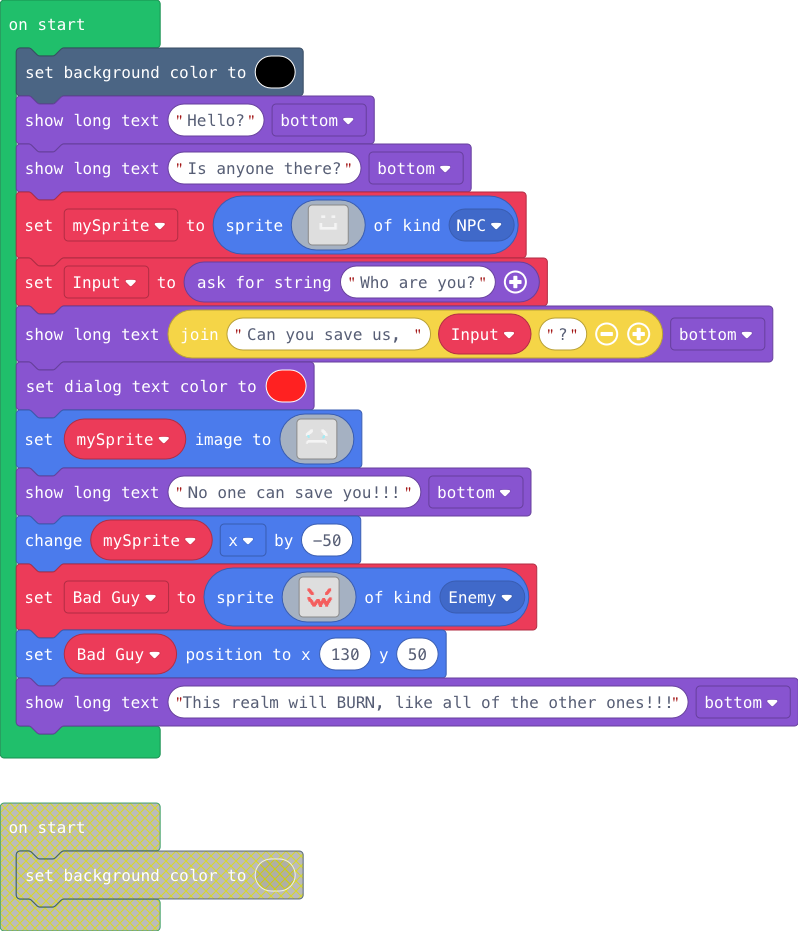
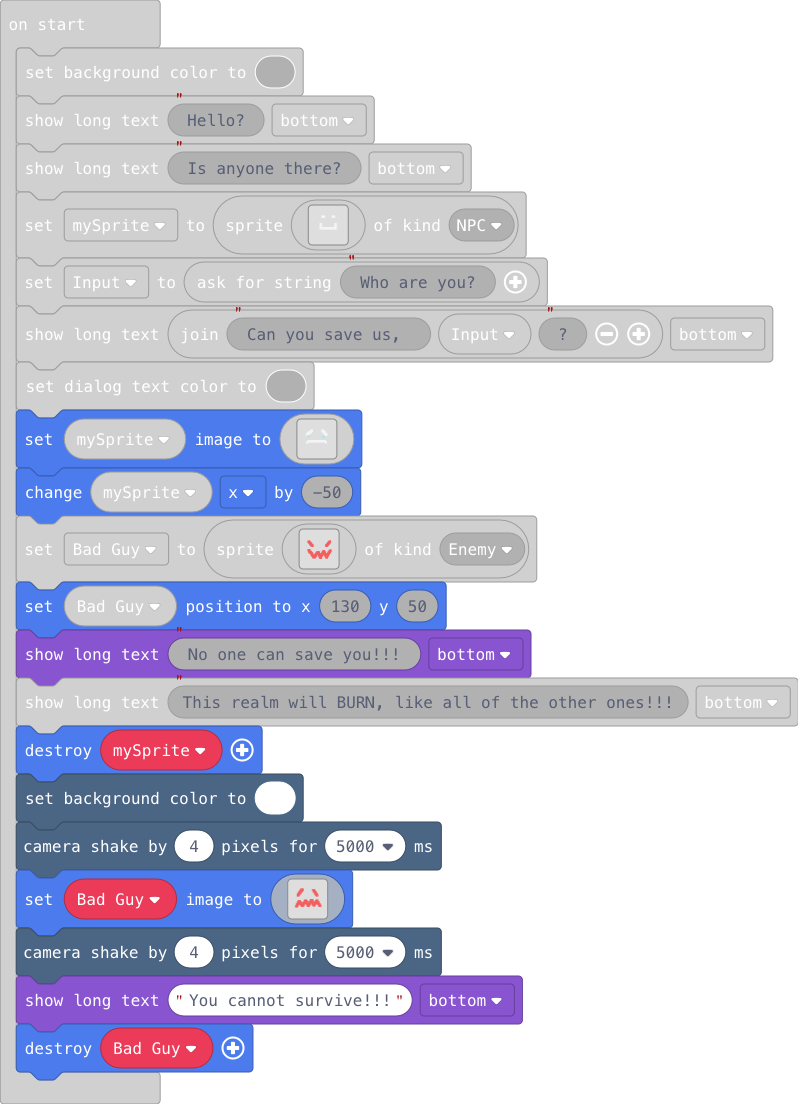
Cutscene still, working on camera angles

diff --git a/main.ts b/main.ts
@@ -160,7 +160,6 @@ mySprite.setImage(img`
 . . . . . . . . . . . . . . . . . . . . . . . . . . . . . . . . . . . . . . . . . . . . . . . . . . . . . . . . . . . . . . . . 
 . . . . . . . . . . . . . . . . . . . . . . . . . . . . . . . . . . . . . . . . . . . . . . . . . . . . . . . . . . . . . . . . 
 `)
-game.showLongText("No one can save you!!!", DialogLayout.Bottom)
 mySprite.x += -50
 let Bad_Guy = sprites.create(img`
 . . . . . . . . . . . . . . . . . . . . . . . . . . . . . . . . . . . . . . . . . . . . . . . . . . . . . . . . . . . . . . . . 
@@ -229,4 +228,77 @@ let Bad_Guy = sprites.create(img`
 . . . . . . . . . . . . . . . . . . . . . . . . . . . . . . . . . . . . . . . . . . . . . . . . . . . . . . . . . . . . . . . . 
 `, SpriteKind.Enemy)
 Bad_Guy.setPosition(130, 50)
+game.showLongText("No one can save you!!!", DialogLayout.Bottom)
 game.showLongText("This realm will BURN, like all of the other ones!!!", DialogLayout.Bottom)
+mySprite.destroy()
+scene.setBackgroundColor(1)
+scene.cameraShake(4, 5000)
+Bad_Guy.setImage(img`
+. . . . . . . . . . . . . . . . . . . . . . . . . . . . . . . . . . . . . . . . . . . . . . . . . . . . . . . . . . . . . . . . 
+. . . . . . . . . . . . . . . . . . . . . . . . . . . . . . . . . . . . . . . . . . . . . . . . . . . . . . . . . . . . . . . . 
+. . . . . . . . . . . . . . . . . . . . . . . . . . . . . . . . . . . . . . . . . . . . . . . . . . . . . . . . . . . . . . . . 
+. . . . . . . . . . . . . . . . . . . . . . . . . . . . . . . . . . . . . . . . . . . . . . . . . . . . . . . . . . . . . . . . 
+. . . . . . . . . . . . . . . . . . . . . . . . . . . . . . . . . . . . . . . . . . . . . . . . . . . . . . . . . . . . . . . . 
+. . . . . . . . . . . . . . . . . . . . . . . . . . . . . . . . . . . . . . . . . . . . . . . . . . . . . . . . . . . . . . . . 
+. . . . . . . . . . . . . . . . . . . . . . . . . . . . . . . . . . . . . . . . . . . . . . . . . . . . . . . . . . . . . . . . 
+. . . . . . . . . . . . . . . . . . . . . . . . . . . . . . . . . . . . . . . . . . . . . . . . . . . . . . . . . . . . . . . . 
+. . . . . . . . . . . . . . . . . . . . . . . . . . . . . . . . . . . . . . . . . . . . . . . . . . . . . . . . . . . . . . . . 
+. . . . . . . . . . . . . . . . . . . . . . . . . . . . . . . . . . . . . . . . . . . . . . . . . . . . . . . . . . . . . . . . 
+. . . . . . . . . . . . . . . . . . . . . . . . . . . . . . . . . . . . . . . . . . . . . . . . . . . . . . . . . . . . . . . . 
+. . . . . . . . . . . . . . . . . 2 2 2 2 2 2 2 . . . . . . . . . . . . . . . . . . . . . . . . . . . . . . . . . . . . . . . . 
+. . . . . . . . . . . . . . . . . 2 2 2 2 2 2 2 . . . . . . . . . . . . . . . . . 2 2 2 2 2 . . . . . . . . . . . . . . . . . . 
+. . . . . . . . . . . . . . . . 2 2 2 2 2 2 2 2 . . . . . . . . . . . . . . . . . 2 2 2 2 2 2 . . . . . . . . . . . . . . . . . 
+. . . . . . . . . . . . . . . 2 2 2 2 2 2 2 2 2 . . . . . . . . . . . . . . . . . 2 2 2 2 2 2 2 . . . . . . . . . . . . . . . . 
+. . . . . . . . . . . . . . . 2 2 2 2 2 2 2 2 2 . . . . . . . . . . . . . . . . . 2 2 2 2 2 2 2 . . . . . . . . . . . . . . . . 
+. . . . . . . . . . . . . . 2 2 2 2 2 2 2 2 2 . . . . . . . . . . . . . . . . . . 2 2 2 2 2 2 2 2 . . . . . . . . . . . . . . . 
+. . . . . . . . . . . . . 2 2 2 2 2 2 2 2 2 . . . . . . . . . . . . . . . . . . . . 2 2 2 2 2 2 2 2 . . . . . . . . . . . . . . 
+. . . . . . . . . . . . . 2 2 2 2 2 2 2 2 . . . . . . . . . . . . . . . . . . . . . . 2 2 2 2 2 2 2 . . . . . . . . . . . . . . 
+. . . . . . . . . . . . 2 2 2 2 2 2 2 2 . . . . . . . . . . . . . . . . . . . . . . . 2 2 2 2 2 2 2 2 . . . . . . . . . . . . . 
+. . . . . . . . . . . 2 2 2 2 2 2 2 2 2 . . . . . . . . . . . . . . . . . . . . . . . . 2 2 2 2 2 2 2 2 . . . . . . . . . . . . 
+. . . . . . . . . . . 2 2 2 2 2 2 2 2 . . . . . . . . . . . . . . . . . . . . . . . . . . 2 2 2 2 2 2 2 . . . . . . . . . . . . 
+. . . . . . . . . . 2 2 2 2 2 2 2 2 . . . . . . . . . . . . . . . . . . . . . . . . . . . 2 2 2 2 2 2 2 2 . . . . . . . . . . . 
+. . . . . . . . . . 2 2 2 2 2 2 2 . . . . . . . . . . . . . . . . . . . . . . . . . . . . . 2 2 2 2 2 2 2 . . . . . . . . . . . 
+. . . . . . . . . . 2 2 2 2 2 2 . . . . . . . . . . . . . . . . . . . . . . . . . . . . . . . 2 2 2 2 2 2 . . . . . . . . . . . 
+. . . . . . . . . . 2 2 2 2 2 2 . . . . . . . . . . . . . . . . . . . . . . . . . . . . . . . 2 2 2 2 2 2 . . . . . . . . . . . 
+. . . . . . . . . . 2 2 2 2 2 . . . . . . . . . . . . . . . . . . . . . . . . . . . . . . . . . 2 2 2 2 2 . . . . . . . . . . . 
+. . . . . . . . . . . . . . . . . . . . . . . . . . . . . . . . . . . . . . . . . . . . . . . . . . . . . . . . . . . . . . . . 
+. . . . . . . . . . . . . . . . . . . . . . . . . . . . . . . . . . . . . . . . . . . . . . . . . . . . . . . . . . . . . . . . 
+. . . . . . . . . . . . . . . . . . . . . . . . . . . . . . . . . . . . . . . . . . . . . . . . . . . . . . . . . . . . . . . . 
+. . . . . . . . . . . . . . . . . . . . . . . . . . . . . . . . . . . . . . . . . . . . . . . . . . . . . . . . . . . . . . . . 
+. . . . . . . . . . . . . . . . . . . . . . . . . . . . . . . . . . . . . . . . . . . . . . . . . . . . . . . . . . . . . . . . 
+. . . . . . . . . . . . . . . . . . . . . . . . . . . . . . . . . . . . . 2 2 2 2 2 2 . . . . . . . . . . . . . . . . . . . . . 
+. . . . . . . . . . . . . . . . . . . . . . . . . 2 2 2 2 2 . . . . . . 2 2 2 2 2 2 2 . . . . . 2 2 2 2 2 . . . . . . . . . . . 
+. . . . . . . . . . . . 2 2 2 2 2 2 . . . . . . 2 2 2 2 2 2 2 2 . . . . 2 2 2 2 2 2 2 . . . . 2 2 2 2 2 2 . . . . . . . . . . . 
+. . . . . . . . . . . . 2 2 2 2 2 2 . . . . . . 2 2 2 2 2 2 2 2 . . . 2 2 2 2 2 2 2 2 2 . . 2 2 2 2 2 2 2 2 . . . . . . . . . . 
+. . . . . . . . . . . 2 2 2 2 2 2 2 2 . . . . 2 2 2 2 2 2 2 2 2 2 . . 2 2 2 2 2 2 2 2 2 . . 2 2 2 2 2 2 2 2 2 . . . . . . . . . 
+. . . . . . . . . . . 2 2 2 2 2 2 2 2 2 . . . 2 2 2 2 2 2 2 2 2 2 . 2 2 2 2 2 2 2 2 2 2 2 2 2 2 2 2 2 2 2 2 2 . . . . . . . . . 
+. . . . . . . . . . 2 2 2 2 2 2 2 2 2 2 . . 2 2 2 2 2 2 2 2 2 2 2 . 2 2 2 2 2 2 2 2 2 2 2 2 2 2 2 2 2 2 2 2 2 2 . . . . . . . . 
+. . . . . . . . . . 2 2 2 2 2 2 2 2 2 2 2 2 2 2 2 2 2 2 2 2 2 2 2 2 2 2 2 2 2 2 2 2 2 2 2 2 2 2 2 2 2 2 2 2 2 2 . . . . . . . . 
+. . . . . . . . . 2 2 2 2 2 2 2 2 2 2 2 2 2 2 2 2 2 2 2 2 2 2 2 2 2 2 2 2 2 2 2 2 2 2 2 2 2 2 2 2 2 2 2 2 2 2 2 2 . . . . . . . 
+. . . . . . . . . 2 2 2 2 2 2 2 2 2 2 2 2 2 2 2 2 2 2 2 2 2 2 2 2 2 2 2 2 2 2 . 2 2 2 2 2 2 2 2 2 2 2 2 2 2 2 2 2 2 . . . . . . 
+. . . . . . . . 2 2 2 2 2 2 2 2 2 2 2 2 2 2 2 2 2 2 2 . 2 2 2 2 2 2 2 2 2 2 2 . 2 2 2 2 2 2 2 2 2 . . 2 2 2 2 2 2 2 . . . . . . 
+. . . . . . . . 2 2 2 2 2 2 2 . 2 2 2 2 2 2 2 2 2 2 . . . 2 2 2 2 2 2 2 2 2 . . 2 2 2 2 2 2 2 2 2 . . 2 2 2 2 2 2 2 2 . . . . . 
+. . . . . . . 2 2 2 2 2 2 2 . . . 2 2 2 2 2 2 2 2 2 . . . 2 2 2 2 2 2 2 2 . . . . 2 2 2 2 2 2 2 . . . . 2 2 2 2 2 2 2 . . . . . 
+. . . . . . . 2 2 2 2 2 2 2 . . . 2 2 2 2 2 2 2 2 . . . . . 2 2 2 2 2 2 2 . . . . 2 2 2 2 2 2 . . . . . . 2 2 2 2 2 2 . . . . . 
+. . . . . . . 2 2 2 2 2 2 . . . . . 2 2 2 2 2 2 2 . . . . . 2 2 2 2 2 2 . . . . . . 2 2 2 2 2 . . . . . . 2 2 2 2 2 2 . . . . . 
+. . . . . . . 2 2 2 2 2 2 . . . . . . 2 2 2 2 2 . . . . . . . 2 2 2 2 2 . . . . . . . . . . . . . . . . . . 2 2 2 2 2 . . . . . 
+. . . . . . . 2 2 2 2 2 . . . . . . . . . . . . . . . . . . . . . . . . . . . . . . . . . . . . . . . . . . . . . . . . . . . . 
+. . . . . . . . . . . . . . . . . . . . . . . . . . . . . . . . . . . . . . . . . . . . . . . . . . . . . . . . . . . . . . . . 
+. . . . . . . . . . . . . . . . . . . . . . . . . . . . . . . . . . . . . . . . . . . . . . . . . . . . . . . . . . . . . . . . 
+. . . . . . . . . . . . . . . . . . . . . . . . . . . . . . . . . . . . . . . . . . . . . . . . . . . . . . . . . . . . . . . . 
+. . . . . . . . . . . . . . . . . . . . . . . . . . . . . . . . . . . . . . . . . . . . . . . . . . . . . . . . . . . . . . . . 
+. . . . . . . . . . . . . . . . . . . . . . . . . . . . . . . . . . . . . . . . . . . . . . . . . . . . . . . . . . . . . . . . 
+. . . . . . . . . . . . . . . . . . . . . . . . . . . . . . . . . . . . . . . . . . . . . . . . . . . . . . . . . . . . . . . . 
+. . . . . . . . . . . . . . . . . . . . . . . . . . . . . . . . . . . . . . . . . . . . . . . . . . . . . . . . . . . . . . . . 
+. . . . . . . . . . . . . . . . . . . . . . . . . . . . . . . . . . . . . . . . . . . . . . . . . . . . . . . . . . . . . . . . 
+. . . . . . . . . . . . . . . . . . . . . . . . . . . . . . . . . . . . . . . . . . . . . . . . . . . . . . . . . . . . . . . . 
+. . . . . . . . . . . . . . . . . . . . . . . . . . . . . . . . . . . . . . . . . . . . . . . . . . . . . . . . . . . . . . . . 
+. . . . . . . . . . . . . . . . . . . . . . . . . . . . . . . . . . . . . . . . . . . . . . . . . . . . . . . . . . . . . . . . 
+. . . . . . . . . . . . . . . . . . . . . . . . . . . . . . . . . . . . . . . . . . . . . . . . . . . . . . . . . . . . . . . . 
+. . . . . . . . . . . . . . . . . . . . . . . . . . . . . . . . . . . . . . . . . . . . . . . . . . . . . . . . . . . . . . . . 
+. . . . . . . . . . . . . . . . . . . . . . . . . . . . . . . . . . . . . . . . . . . . . . . . . . . . . . . . . . . . . . . . 
+. . . . . . . . . . . . . . . . . . . . . . . . . . . . . . . . . . . . . . . . . . . . . . . . . . . . . . . . . . . . . . . . 
+`)
+scene.cameraShake(4, 5000)
+game.showLongText("You cannot survive!!!", DialogLayout.Bottom)
+Bad_Guy.destroy()
